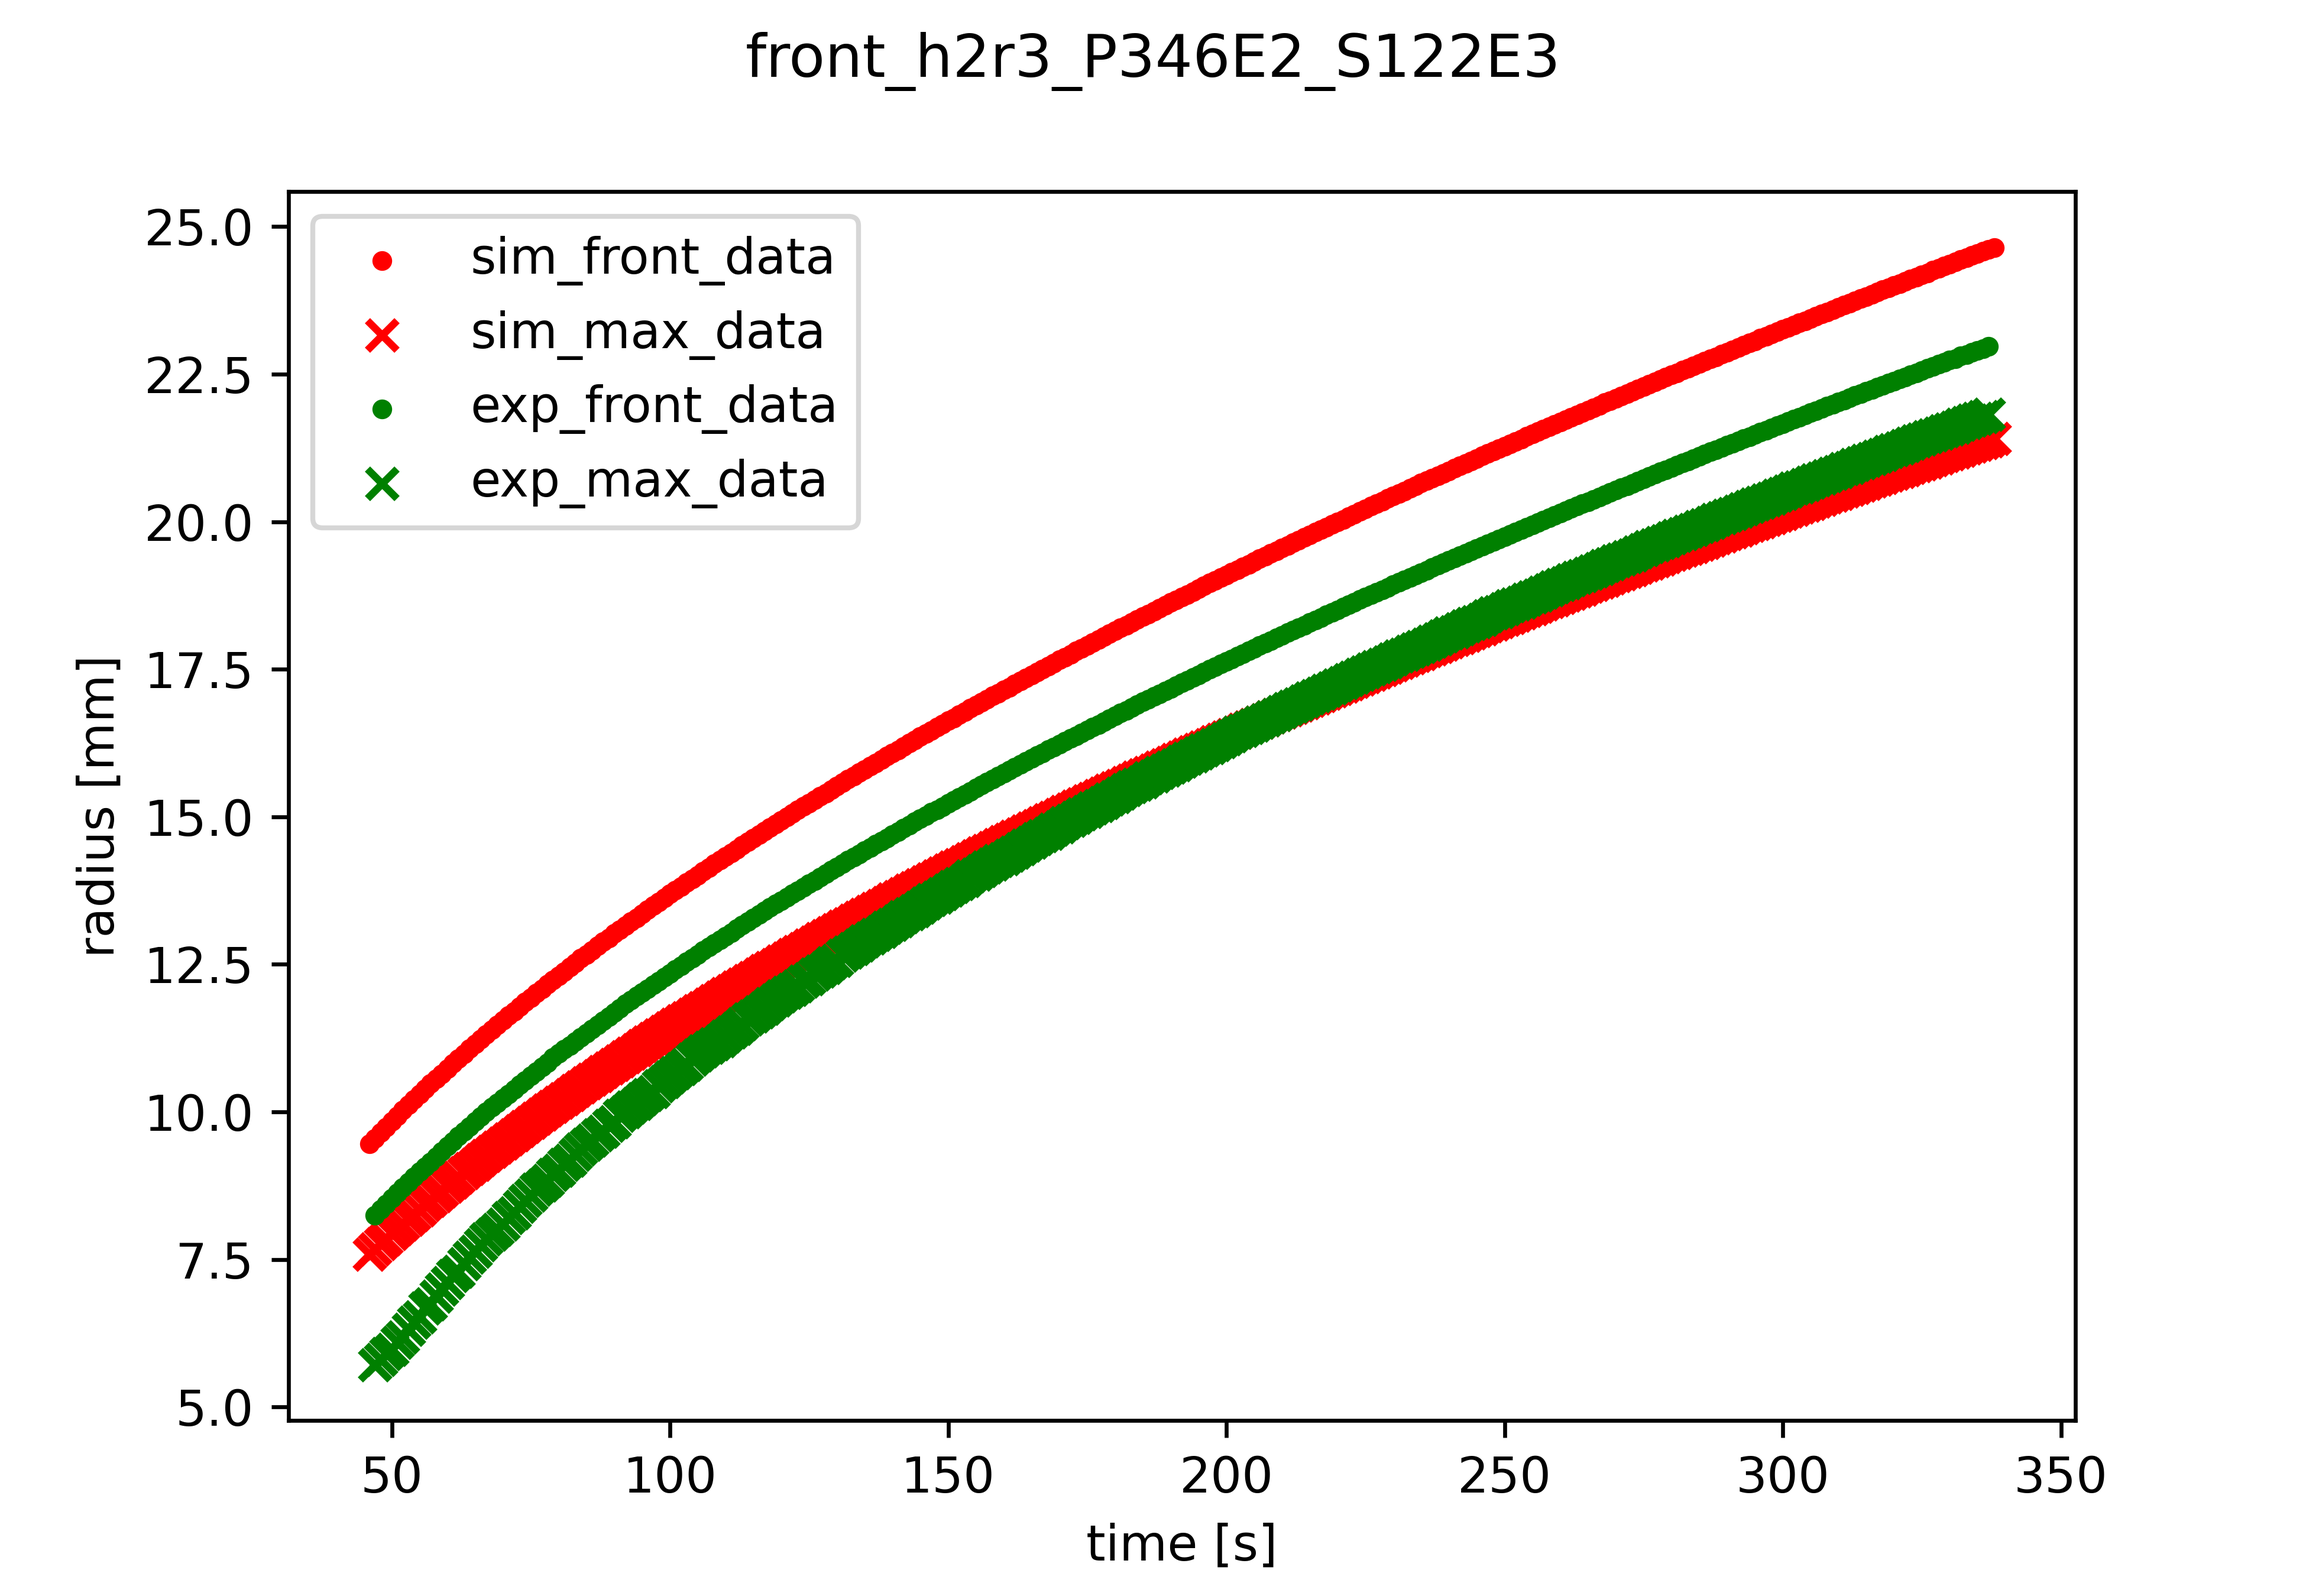
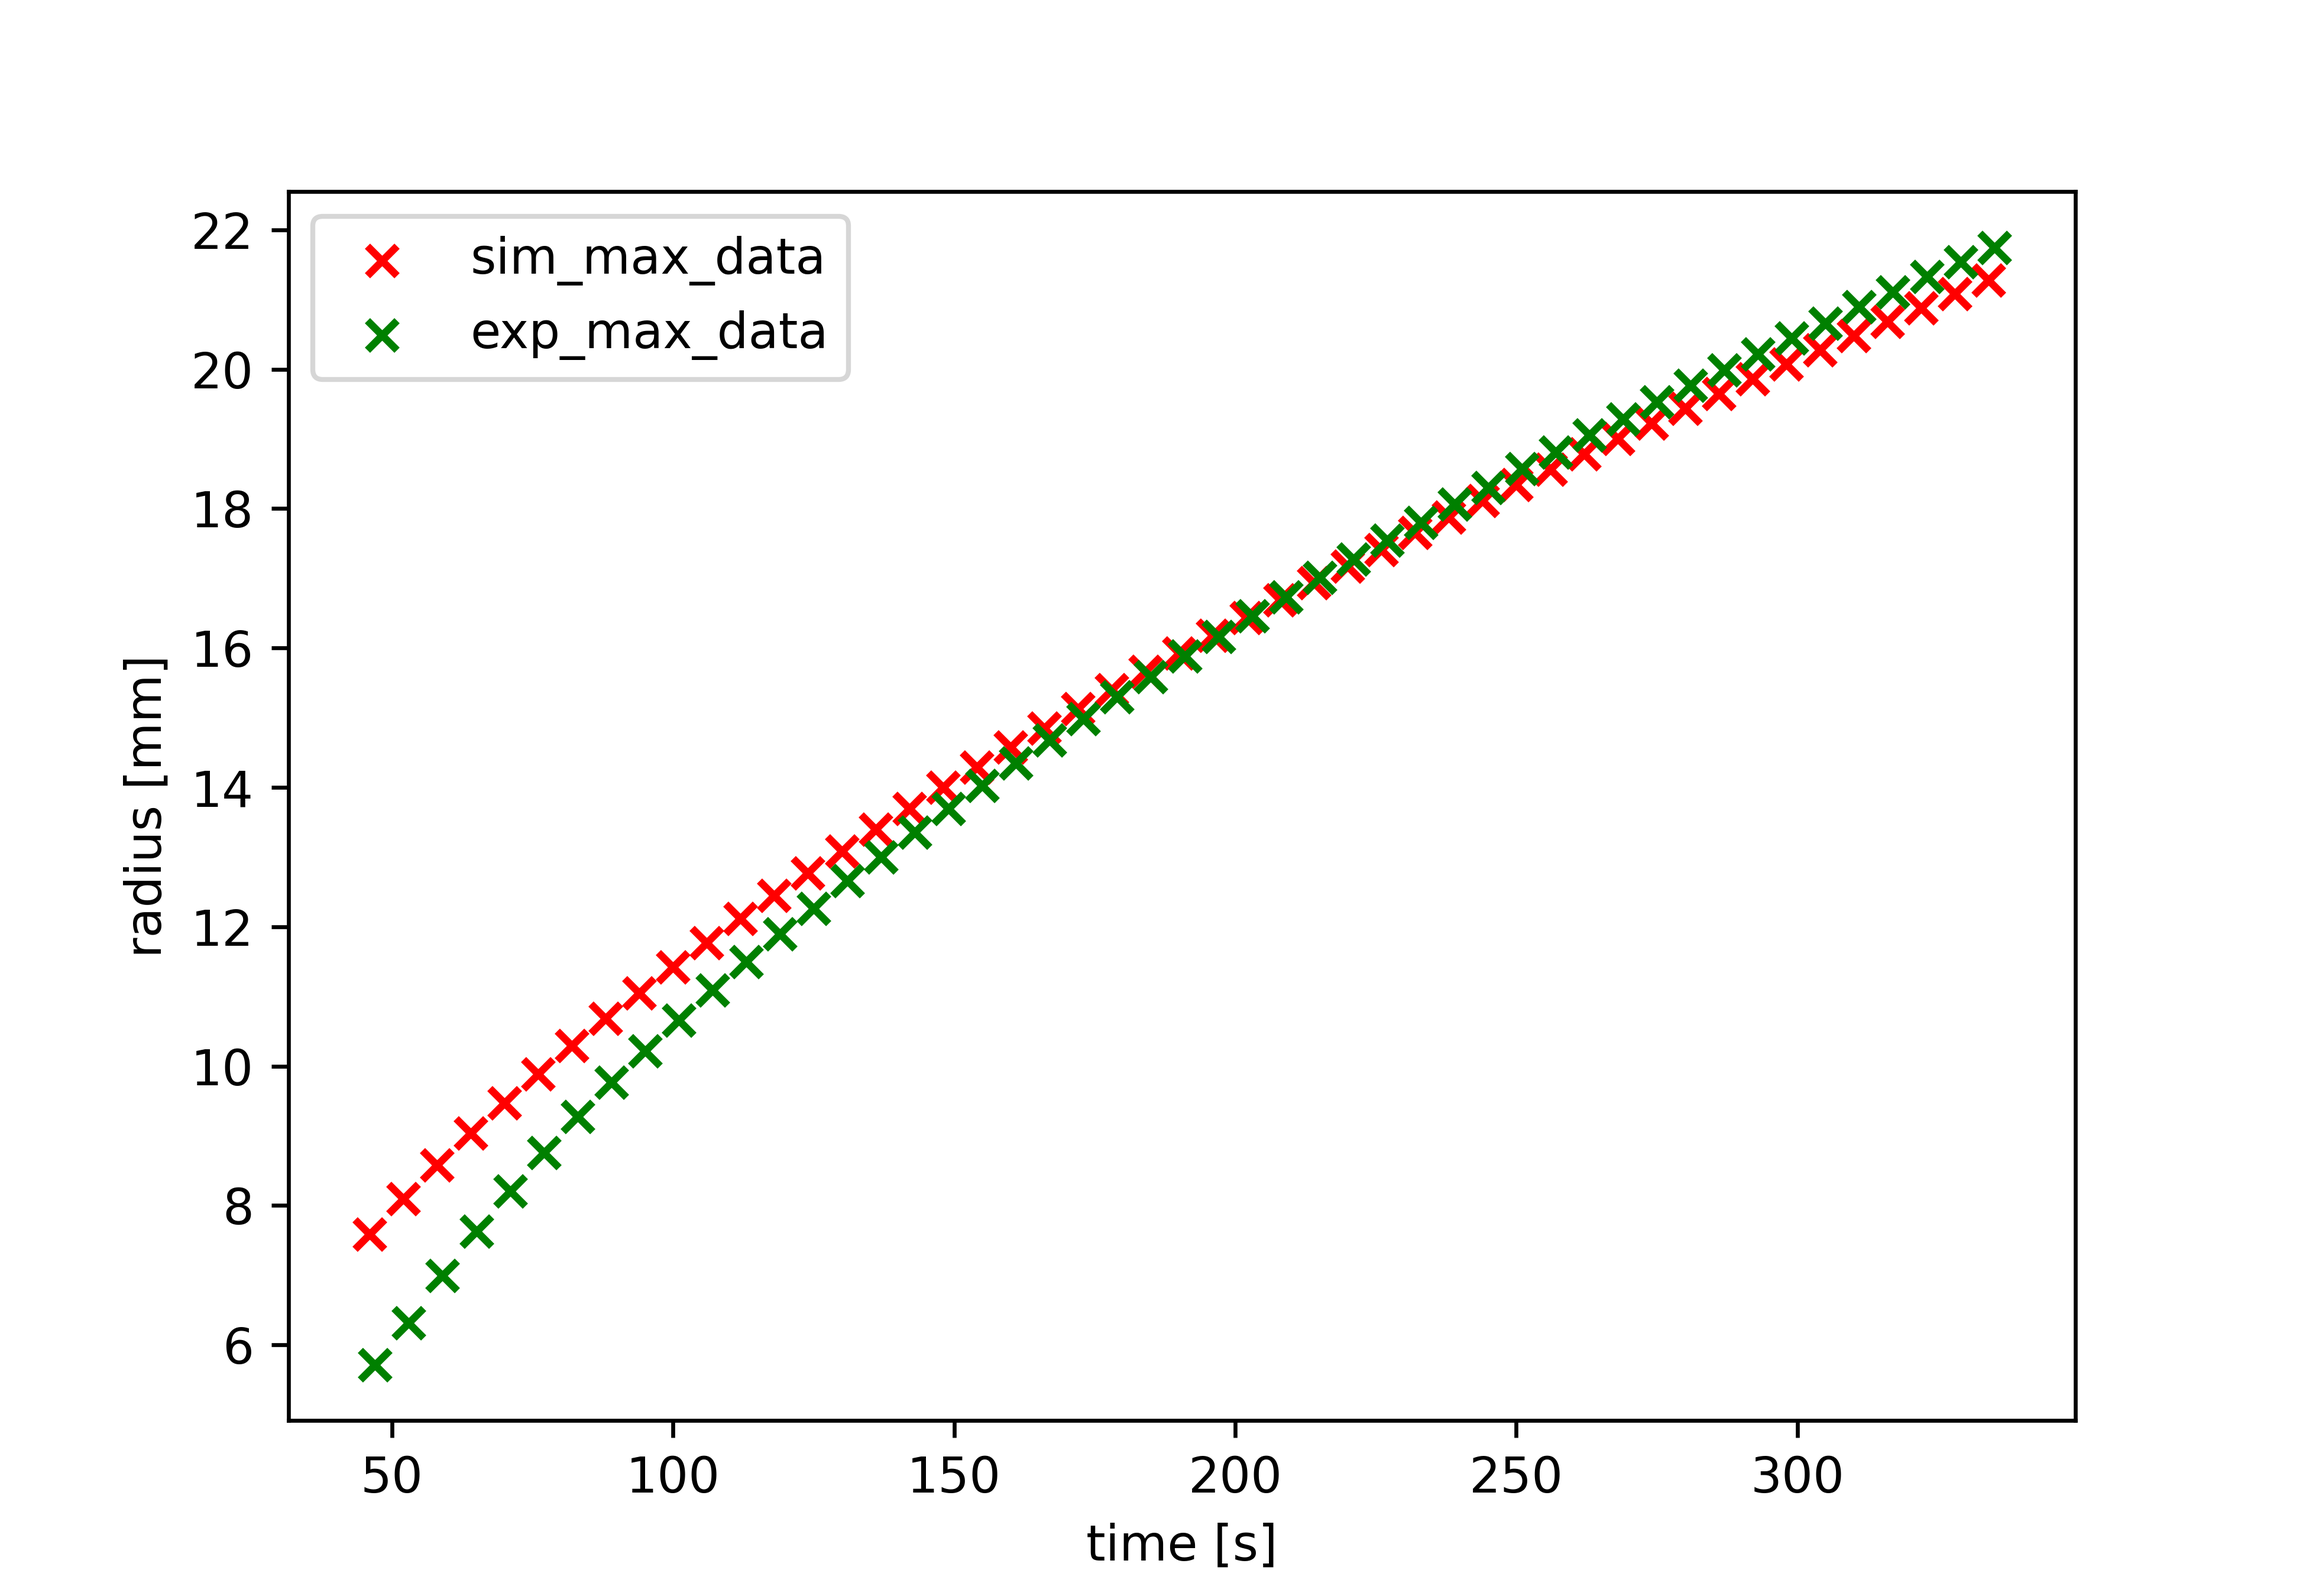
changes to front comparison

diff --git a/Software/python/transient_field.py b/Software/python/transient_field.py
@@ -701,7 +701,7 @@ class flowfield:
         plt.close(fig)
         logging.info(f"saved image {image_name}.")
 
-    def plot_prod(self, config, use_exp=True):
+    def plot_prod(self, config, use_exp=False):
         """
         Function that plots the total amount of product
         """
@@ -889,10 +889,8 @@ class flowfield:
                 
 
                 if type(exp_data[cas]) == type(pd.DataFrame({})):
-                    legend = ["sim_front_data", "sim_max_data", "exp_front_data", "exp_max_data"]
                     image_name = f"front_{str(self.front_threshhold).replace('.', ',')}" + "." + config["plot_file_type"]
                 else:
-                    legend = [f"front {height} {Pe} {Sc}", f"max {height} {Pe} {Sc}"]
                     image_name = f"front_{str(self.front_threshhold).replace('.', ',')}" + "." + config["plot_file_type"]
                 
                 
@@ -903,7 +901,7 @@ class flowfield:
 
                 title = "front_" + cas
 
-                fig.suptitle(title)
+                # fig.suptitle(title)
                 tmp_exp = exp_data[cas]
 
         
@@ -933,23 +931,25 @@ class flowfield:
                     max_exp_t = list(exp_data[cas]["t (s)"].round(0))
                     max_exp_r = list(exp_data[cas][" RC (mm)"])
 
-                    cax = axs.scatter(sim_matched["times [s]"], sim_matched["r_s [m]"]*1e3-0.5, color = cols[i], marker=".")
-                    cax = axs.scatter(max_matched["times [s]"], max_matched["r_s [m]"]*1e3-0.5, color = cols[i], marker="x")
+                    # cax = axs.scatter(sim_matched["times [s]"][::sim_step], sim_matched["r_s [m]"][::sim_step]*1e3-0.5, color = cols[i], marker=".", label="sim_front_data")
+                    cax = axs.scatter(max_matched["times [s]"][::sim_step], max_matched["r_s [m]"][::sim_step]*1e3-0.5, color = cols[i], marker="x", label="sim_max_data")
 
-                    cax = axs.scatter(tmp_exp_fr_dat["t (s)"], tmp_exp_fr_dat[" Rf (mm)"], color="green", marker=".")
-                    cax = axs.scatter(tmp_exp_mx_dat["t (s)"], tmp_exp_mx_dat[" RC (mm)"], color="green", marker="x")
+                    # cax = axs.scatter(tmp_exp_fr_dat["t (s)"][::mx_step], tmp_exp_fr_dat[" Rf (mm)"][::mx_step], color="green", marker=".", label="exp_front_data")
+                    cax = axs.scatter(tmp_exp_mx_dat["t (s)"][::mx_step], tmp_exp_mx_dat[" RC (mm)"][::mx_step], color="green", marker="x", label="exp_max_data")
+                    
                 else:
                     logging.info(f"sim_data {sim_data.keys()}, max_data {max_data.keys()}")
-                    cax = axs.scatter(sim_data["times [s]"][::sim_step], sim_data["r_s [m]"][::sim_step]*1e3, color = cols[i], marker=".")
+                    cax = axs.scatter(sim_data["times [s]"][::sim_step], sim_data["r_s [m]"][::sim_step]*1e3, color = cols[i], marker=".", label=f"front {height} {Pe} {Sc}")
                     legend.append(f"front {height} {Pe} {Sc}")
-                    cax = axs.scatter(mx_data["times [s]"][::mx_step], mx_data["r_s [m]"][::mx_step]*1e3, color = cols[i], marker="x")
+                    cax = axs.scatter(mx_data["times [s]"][::mx_step], mx_data["r_s [m]"][::mx_step]*1e3, color = cols[i], marker="x", label=f"max {height} {Pe} {Sc}")
                     legend.append(f"max {height} {Pe} {Sc}")
 
         image_path = os.path.join(folder_path, image_name)
         axs.set_xlabel("time [s]")
         axs.set_ylabel("radius [mm]")
         # axs.set_xlim(225, 380)
-        axs.legend(legend)
+        # axs.legend(legend)
+        cax = axs.legend()
 
         plt.savefig(image_path, dpi=600)
         plt.close(fig)

diff --git a/Software/python/ui.py b/Software/python/ui.py
@@ -10,7 +10,7 @@ import numpy as np
 from dash import *
 from plotly.tools import mpl_to_plotly
 from ansys_utils import *
-from transient_field import flowfield
+from Software.python.transient_field import flowfield
 import dash_bootstrap_components as dbc
 
 # setup logging

diff --git a/Software/python/journal.py b/Software/python/journal.py
@@ -3,7 +3,7 @@ import sys
 import json
 import logging
 
-from transient_field import *
+from Software.python.transient_field import *
 from ansys_utils import *
 
 """
